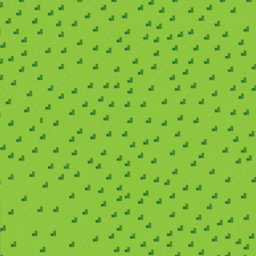
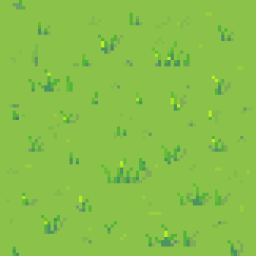
Changed grass texture
Changed grass texture and minor camera update

diff --git a/polygon_survivors.js b/polygon_survivors.js
@@ -77,12 +77,12 @@ export class Polygon_Survivors extends Scene {
                 {ambient: 0.7, diffusivity: .6, color: hex_color("#9c1010")}),
             sword: new Material(new defs.Phong_Shader(),
                 {ambient: 0.7, diffusivity: .6, specularity: 1, color: hex_color("#919191")}),
-            grass: new Material(textured, {ambient: 1, texture: new Texture("assets/tile_texture.jpeg", "LINEAR_MIPMAP_LINEAR")}),
+            grass: new Material(textured, {ambient: 1, texture: new Texture("assets/grass.png", "LINEAR_MIPMAP_LINEAR")}),
         }
 
         this.shapes.field.arrays.texture_coord = this.shapes.field.arrays.texture_coord.map(x => x.times(16));
 
-        this.initial_camera_location = Mat4.look_at(vec3(0, 0, 30), vec3(0, 0, 0), vec3(0, 1, 0));
+        this.initial_camera_location = Mat4.look_at(vec3(0, 0, 40), vec3(0, 0, 0), vec3(0, 1, 0));
     }
 
     make_control_panel() {
